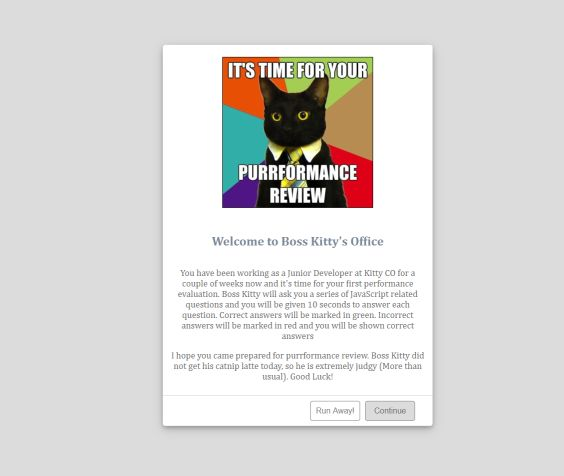
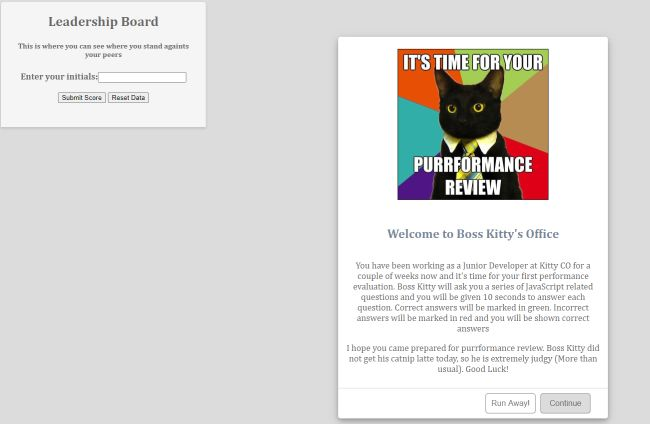
Minor change on game description and added new screenshots

diff --git a/index.html b/index.html
@@ -20,9 +20,9 @@
             <h1 class="intro">Welcome to Boss Kitty's Office</h1> <br>You have been working as a Junior Developer at
             Kitty CO for a couple of weeks now
             and it's time for your first performance evaluation. Boss Kitty will ask you a series of JavaScript related
-            questions and you will be given 10 seconds to answer each question.
-            Correct answers will be marked in green. Incorrect answers will be marked in red and you will be shown
-            correct answers
+            questions and you will be given 60 seconds to answer all the questions. Correct answers will be marked in green.
+            Incorrect answers will be marked in red and you will be shown correct answers. He will deduct 10 seconds to your
+             remaining time for every wrong answer your select. The timer starts as soon as you hover your mouse over the first set of options 
             <p>
                 I hope you came prepared for purrformance review. Boss Kitty did not get his catnip latte today, so he
                 is extremely judgy (More than usual). Good Luck!

diff --git a/Readme.md b/Readme.md
@@ -29,12 +29,16 @@ Developed a Javascript driven multiple choise questionaire/quiz that implements 
 <h3>PREVIEW OF FINAL RESULT</h3>
 <p>
 
-Select link below to view live refactored webpage
-
+Select link below to view live Purrformance Review Quiz 
 <a href="https://lex4736.github.io/purrformancereview/"> Click here to view webpage </a>
 <p>
-See below for screenshot of responsive webpage
+See below for screenshot of Quiz
 <br>
+<b>Main Page</p><br>
 <img src="https://github.com/lex4736/purrformancereview/blob/master/assets/Screenshot1.jpg" alt="Code Quiz Main Page">
 <br>
+<b>Preview of unanswered questions</p><br>
 <img src="https://github.com/lex4736/purrformancereview/blob/master/assets/Screenshot2.jpg" alt="Code Quiz Questions Sample">
+<br>
+<b>Preview of incorrect answer selected</p><br>
+<img src="https://github.com/lex4736/purrformancereview/blob/master/assets/Screenshot3.jpg" alt="Code Quiz Questions Sample">
